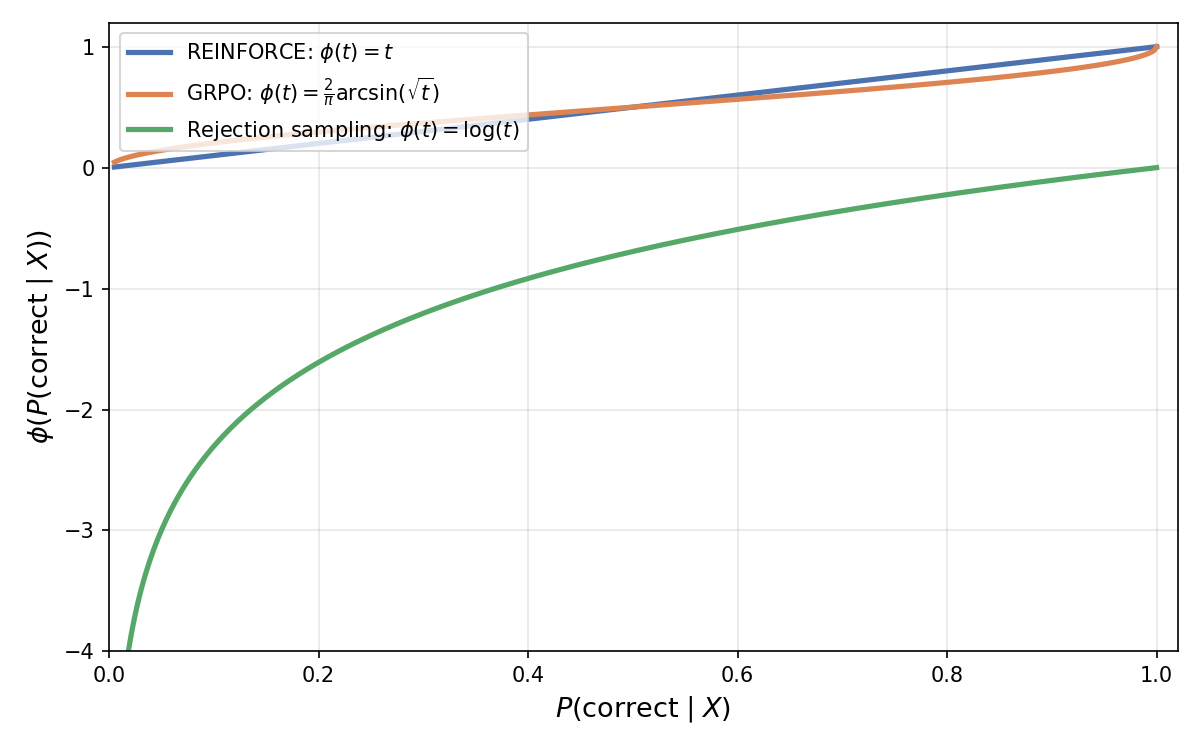
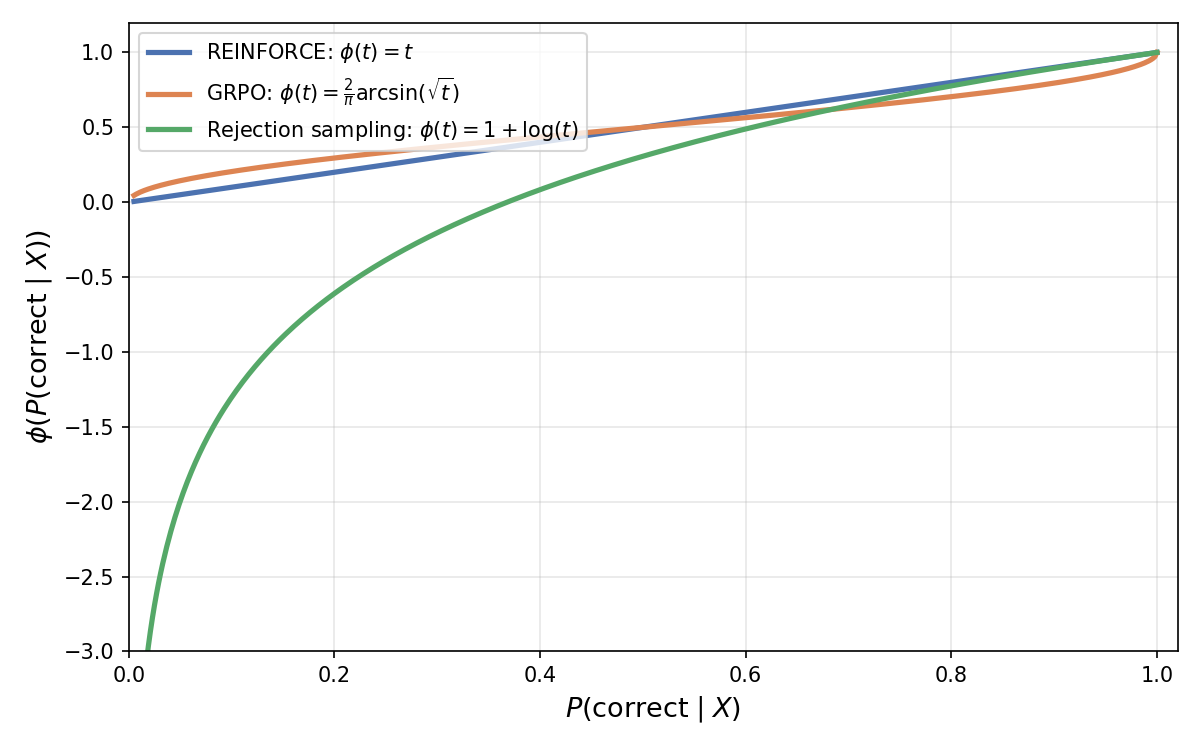
Clarified the rejection sampling section in the notes by updating the gradient update formula to reflect the use of $k$ (number of correct samples) instead of $b$ (total samples). Revised the explanation of the rescaling functions in Figure 8.1 to highlight the shift in the rejection sampling curve,

diff --git a/section/7/notes.md b/section/7/notes.md
@@ -858,13 +858,15 @@ $$
 
 GRPO normalizes the rewards within the batch: subtracts the mean and divides by the standard deviation. People claimed this was the secret sauce that made DeepSeek work. Last year, everyone kept repeating "GRPO GRPO GRPO." It was pretty annoying.
 
-For **rejection sampling** (sometimes called ReST, Reinforcement from Self-Training): when rewards are binary ($r(Y) \in \{0, 1\}$), set $Z_i = r(Y_i)$. This means $Z_i = 1$ for correct answers and $Z_i = 0$ for incorrect ones. The gradient update becomes
+For **rejection sampling**: when rewards are binary ($r(Y) \in \{0, 1\}$), keep sampling from $p_\theta(\cdot \mid X)$ until you get a correct answer $Y$, then take a gradient step on $\nabla_\theta \log p_\theta(Y \mid X)$. This gives the $\log$ rescaling (Section 8.2) because the expected number of samples per update is $1/P(\text{correct})$, so the effective cost per step depends on the current success probability.
+
+In practice, nobody actually resamples until success. Instead, you sample a batch of $b$ answers, throw away the wrong ones, and average the gradient over the $k$ correct ones:
 
 $$
-\theta_{+} = \theta + \eta \cdot \frac{1}{b}\sum_{i:\, Y_i \text{ correct}} \nabla_\theta \log p_\theta(Y_i \mid X).
+\theta_{+} = \theta + \eta \cdot \frac{1}{k}\sum_{i:\, Y_i \text{ correct}} \nabla_\theta \log p_\theta(Y_i \mid X), \qquad k = \sum_{i=1}^b \mathbf{1}[Y_i \text{ correct}].
 $$
 
-This is just supervised learning on the correct samples from the batch. The algorithm is: sample a batch of answers, throw away the wrong ones, maximize the log-likelihood of the right ones. It is the simplest possible RL algorithm for binary rewards. You generate your own training data, filter it, and fine-tune on the filtered set.
+The division by $k$ (not $b$) is what makes this an approximation to rejection sampling rather than vanilla REINFORCE. This is just supervised learning on the correct samples from the batch: generate your own training data, filter it, and fine-tune on the filtered set.
 
 I've written the updates above as SGD steps, but you can use any optimizer. Adam is standard in practice. The gradient estimator is the same regardless of which optimizer consumes it.
 
@@ -890,7 +892,7 @@ What happens when you change the gradient weights $Z_i$? It turns out the effect
 |---|---|
 | Vanilla REINFORCE | $t$ |
 | GRPO | $\frac{2}{\pi}\arcsin(\sqrt{t})$ |
-| Rejection sampling | $\log(t)$ |
+| Rejection sampling | $1 + \log(t)$ |
 
 All three are monotone increasing on $[0, 1]$. Maximizing any of them is equivalent to maximizing $P(\text{correct})$, since monotone transformations preserve the location of the optimum.
 
@@ -898,7 +900,7 @@ Figure 8.1 plots these functions side by side.
 
 ![Rescaling functions](figures/rescaling_functions.png)
 
-*Figure 8.1: The rescaling functions $\phi(t)$ for vanilla REINFORCE ($\phi(t) = t$), GRPO ($\phi(t) = \frac{2}{\pi}\arcsin(\sqrt{t})$), and rejection sampling ($\phi(t) = \log(t)$) on $[0, 1]$. All three are monotone increasing. They differ in how aggressively they weight improvements at different levels of $P(\text{correct})$: GRPO is concave and provides more gradient signal when $P(\text{correct})$ is small, while rejection sampling diverges to $-\infty$ at $t = 0$, providing an infinite penalty for zero accuracy. The key takeaway: they all optimize the same thing, just with different curvature. (Replicates the style of Figures 1 and 3 from Davis and Recht, 2025.)*
+*Figure 8.1: The rescaling functions $\phi(t)$ for vanilla REINFORCE ($\phi(t) = t$), GRPO ($\phi(t) = \frac{2}{\pi}\arcsin(\sqrt{t})$), and rejection sampling ($\phi(t) = 1 + \log(t)$) on $[0, 1]$. The rejection sampling curve is shifted by $+1$ so all three pass through $(1, 1)$. All three are monotone increasing, so maximizing any of them is equivalent to maximizing $P(\text{correct})$.*
 
 I'm not sure what the practical benefit of different reweighting strategies is, other than to give different weights to questions whose success probability is lower or higher. [Heckel, Soltanolkotabi, and Thramboulidis (2026)](https://arxiv.org/abs/2602.11128){:target="_blank"} found some benefit from asymmetric prompt weighting that upweights prompts with low success probability, particularly in from-scratch RL training. I think what matters most is that the base model must have some nontrivial probability of sampling a correct answer at all. No amount of clever rescaling will help if $P(\text{correct}) = 0$.
 
